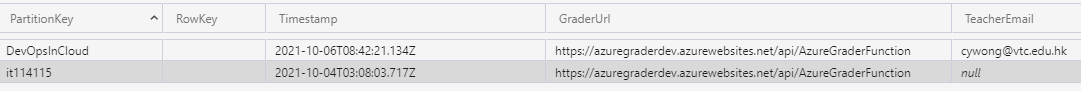
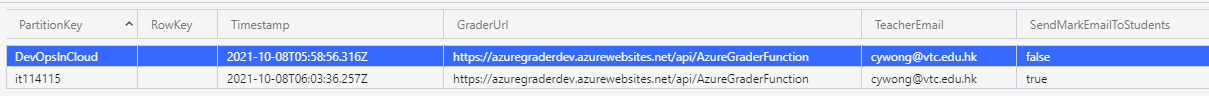
Add SendMarkEmailToStudents in Assignment settings because students should not recevie mark email during the practical test as the unittest may run every 15 mins. And, for development, students should not recevie email.

diff --git a/AzureAutomaticGradingEngineFunctionApp/ScheduleGraderFunction.cs b/AzureAutomaticGradingEngineFunctionApp/ScheduleGraderFunction.cs
@@ -18,6 +18,7 @@ using System.Threading.Tasks;
 using System.Web;
 using AzureAutomaticGradingEngineFunctionApp.Helper;
 using AzureAutomaticGradingEngineFunctionApp.Model;
+using DocumentFormat.OpenXml.Spreadsheet;
 using Microsoft.AspNetCore.Http;
 using Microsoft.Azure.WebJobs.Extensions.Http;
 using Microsoft.WindowsAzure.Storage.Queue;
@@ -134,6 +135,7 @@ namespace AzureAutomaticGradingEngineFunctionApp
             {
                 string graderUrl = assignment.GraderUrl;
                 string project = assignment.PartitionKey;
+                bool SendMarkEmailToStudents = assignment.SendMarkEmailToStudents.HasValue && assignment.SendMarkEmailToStudents.Value;
 
                 var credentialsTableEntities = new List<CredentialsTableEntity>();
                 do
@@ -156,6 +158,7 @@ namespace AzureAutomaticGradingEngineFunctionApp
                 {
                     Name = project,
                     TeacherEmail = assignment.TeacherEmail,
+                    SendMarkEmailToStudents = SendMarkEmailToStudents,
                     Context = new ClassContext() { GraderUrl = graderUrl, Students = JsonConvert.SerializeObject(students) }
                 });
 
@@ -192,7 +195,8 @@ namespace AzureAutomaticGradingEngineFunctionApp
                 var xml = await client.GetStringAsync(uri);
                 var now = DateTime.Now;
                 await SaveTestResult(container, job.assignment.Name, job.student.email.ToString(), xml, now);
-                SendTestResultToStudent(context, log, job.assignment.Name, job.student.email.ToString(), xml, now);
+                if (job.assignment.SendMarkEmailToStudents)
+                    SendTestResultToStudent(context, log, job.assignment.Name, job.student.email.ToString(), xml, now);
                 watch.Stop();
                 var elapsedMs = watch.ElapsedMilliseconds;
                 Console.WriteLine(job.student.email + " get test result in " + elapsedMs + "ms.");
@@ -216,7 +220,6 @@ namespace AzureAutomaticGradingEngineFunctionApp
 
         private static async Task SaveTestResult(CloudBlobContainer container, string assignment, string email, string xml, DateTime now)
         {
-
             var filename = Regex.Replace(email, @"[^0-9a-zA-Z]+", "");
             var blobName = string.Format(CultureInfo.InvariantCulture, assignment + "/" + email + "/{0:yyyy/MM/dd/HH/mm}/" + filename + ".content", now);
             Console.WriteLine(blobName);
@@ -288,6 +291,14 @@ Azure Automatic Grading Engine
             await SaveJsonReport(executionContext, blobName, todayMarks);
             blobName = assignment.Name + "/todayMarks.json";
             await SaveJsonReport(executionContext, blobName, todayMarks);
+            
+            var workbookMemoryStream = new MemoryStream();
+            GradeReportFunction.WriteWorkbookToMemoryStream(accumulatedMarks, workbookMemoryStream);
+
+            blobName = string.Format(CultureInfo.InvariantCulture, assignment.Name + "/{0:yyyy/MM/dd/HH/mm}/marks.json", now);
+            await SaveExcelReport(executionContext, blobName, workbookMemoryStream);
+            blobName = assignment.Name + "/marks.xlsx";
+            await SaveExcelReport(executionContext, blobName, workbookMemoryStream);
 
             if (!string.IsNullOrEmpty(assignment.TeacherEmail))
             {
@@ -306,9 +317,6 @@ Azure Automatic Grading Engine
 
                 var config = new Config(executionContext);
                 var email = new Email(config, log);
-
-                var workbookMemoryStream = new MemoryStream();
-                GradeReportFunction.WriteWorkbookToMemoryStream(accumulatedMarks, workbookMemoryStream);
                 workbookMemoryStream = new MemoryStream(workbookMemoryStream.ToArray());
                 var excelAttachment = new Attachment(workbookMemoryStream, "accumulatedMarks.xlsx",
                     "application/vnd.openxmlformats-officedocument.spreadsheetml.sheet");
@@ -331,6 +339,17 @@ Azure Automatic Grading Engine
             await writer.FlushAsync();
             ms.Position = 0;
             await blob.UploadFromStreamAsync(ms);
+        }
+
+        private static async Task SaveExcelReport(ExecutionContext executionContext, string blobName, Stream excelMemoryStream)
+        {
+            CloudStorageAccount storageAccount = CloudStorage.GetCloudStorageAccount(executionContext);
+            CloudBlobClient blobClient = storageAccount.CreateCloudBlobClient();
+            CloudBlobContainer container = blobClient.GetContainerReference("report");
+            CloudBlockBlob blob = container.GetBlockBlobReference(blobName);
+            blob.Properties.ContentType = "application/vnd.openxmlformats-officedocument.spreadsheetml.sheet";
+            excelMemoryStream.Position = 0;
+            await blob.UploadFromStreamAsync(excelMemoryStream);
         }
     }
 }

diff --git a/AzureAutomaticGradingEngineFunctionApp/Model/Entities.cs b/AzureAutomaticGradingEngineFunctionApp/Model/Entities.cs
@@ -8,7 +8,9 @@ namespace AzureAutomaticGradingEngineFunctionApp.Model
     {
         public string Name { get; set; }
         public string TeacherEmail { get; set; }
+        public bool SendMarkEmailToStudents { get; set; }
         public ClassContext Context { get; set; }
+        
     }
 
     public class ClassContext

diff --git a/AzureAutomaticGradingEngineFunctionApp/Model/TableEntities.cs b/AzureAutomaticGradingEngineFunctionApp/Model/TableEntities.cs
@@ -16,6 +16,8 @@ namespace AzureAutomaticGradingEngineFunctionApp.Model
     {
         public string GraderUrl { get; set; }
         public string TeacherEmail { get; set; }
+
+        public bool? SendMarkEmailToStudents { get; set; }
     }
 
     class CredentialsTableEntity : TableEntity

diff --git a/AzureAutomaticGradingEngineFunctionApp/Helper/Email.cs b/AzureAutomaticGradingEngineFunctionApp/Helper/Email.cs
@@ -52,6 +52,7 @@ namespace AzureAutomaticGradingEngineFunctionApp.Helper
             }
             
             _client.Send(message);
+            _log.LogInformation("Sent email to " + email.To);
         }
     }
 }

diff --git a/README.md b/README.md
@@ -71,6 +71,7 @@ Partition Key: assignment or project name such as it114115
 Properties:
 "GraderUrl":  The grader HTTP Url 
 "TeacherEmail":  Teacher Email for class grade report. (Optional)
+"SendMarkEmailToStudents": type bool and set it to true if you want to send mark report to students. If this property does not exist, email will not send.
 ![Assignment](./images/AssignmentTableRecord.png)
 
 # Email Registeration Link to your student.
@@ -99,7 +100,7 @@ https://somethingunique.azurewebsites.net/api/StudentRegistrationFunction?projec
 
 Remark: 
 1. Subscription ID must be unique for each assignment.
-2. Don't run <code>az ad sp create-for-rbac -n "gradingengine" --sdk-auth</code> repeatedly! Teacher needs to remove the student in subscription table and ask your student resubmits the online form for the new credentials.
+2. Don't run <code>az ad sp create-for-rbac -n "gradingengine" --sdk-auth</code> repeatedly! Teacher needs to remove the student in subscription table and asks your student to resubmit the online form with the new credentials.
 
 ## Quick test with AzureGraderConsoleRunner
 
